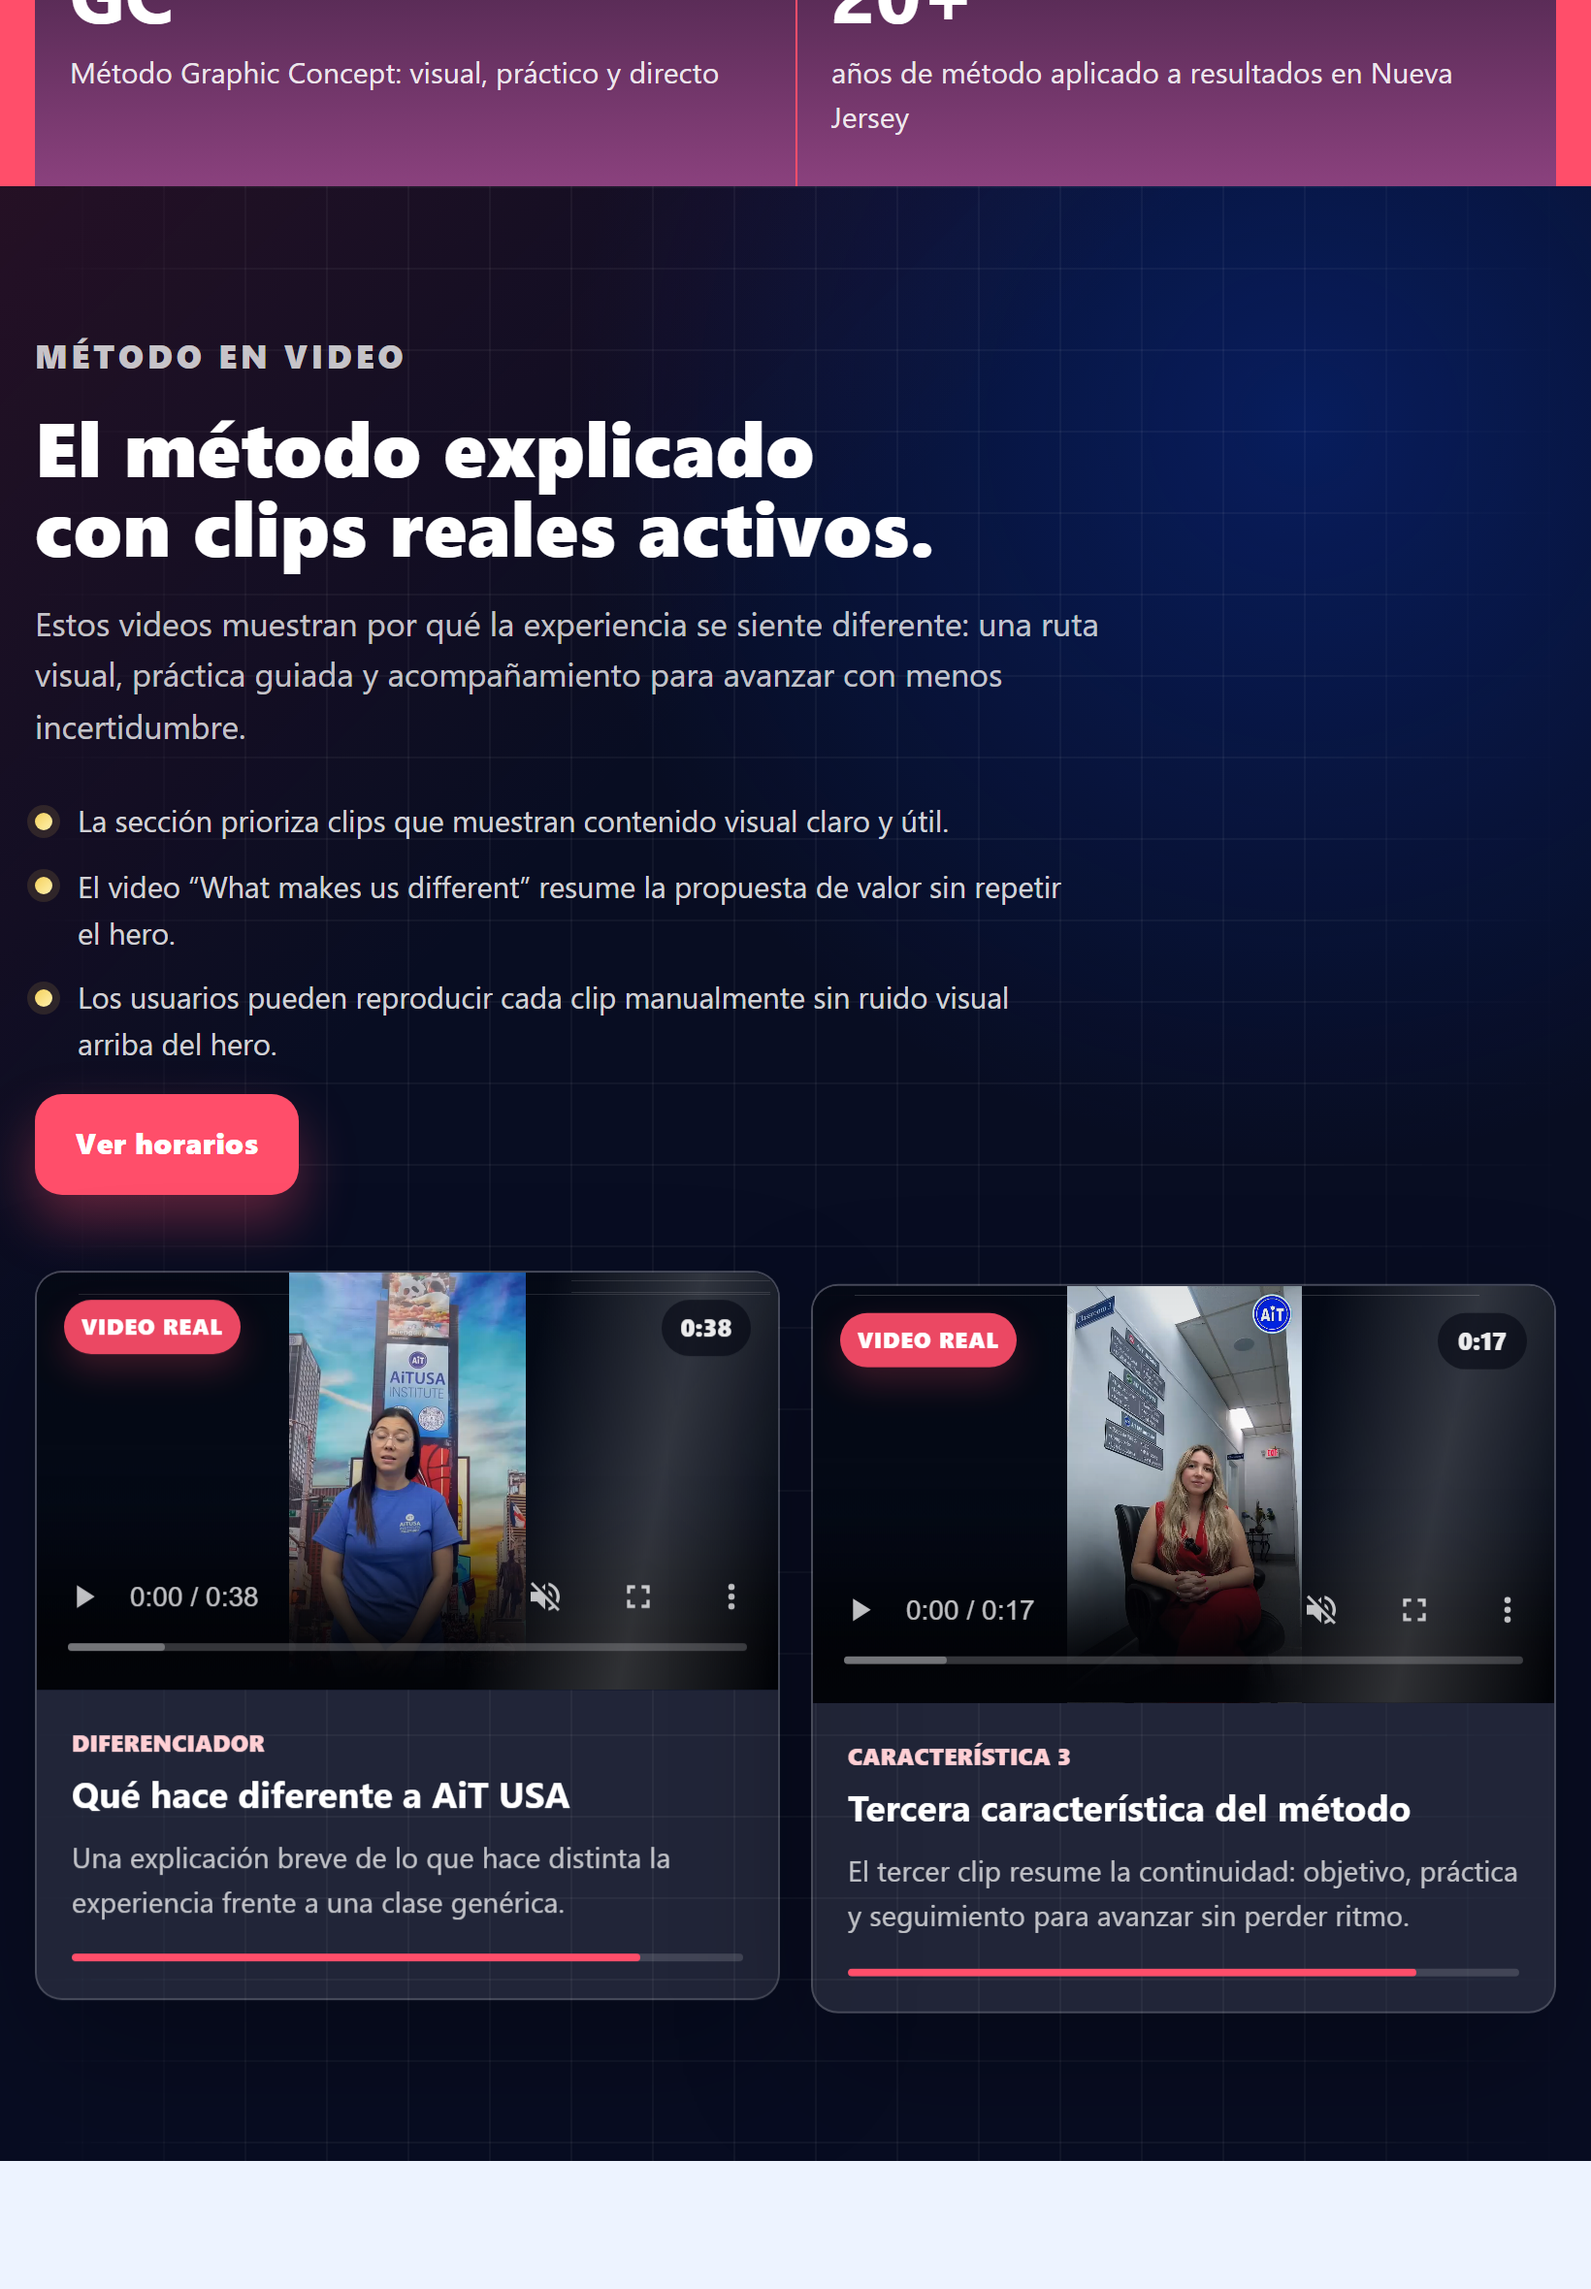
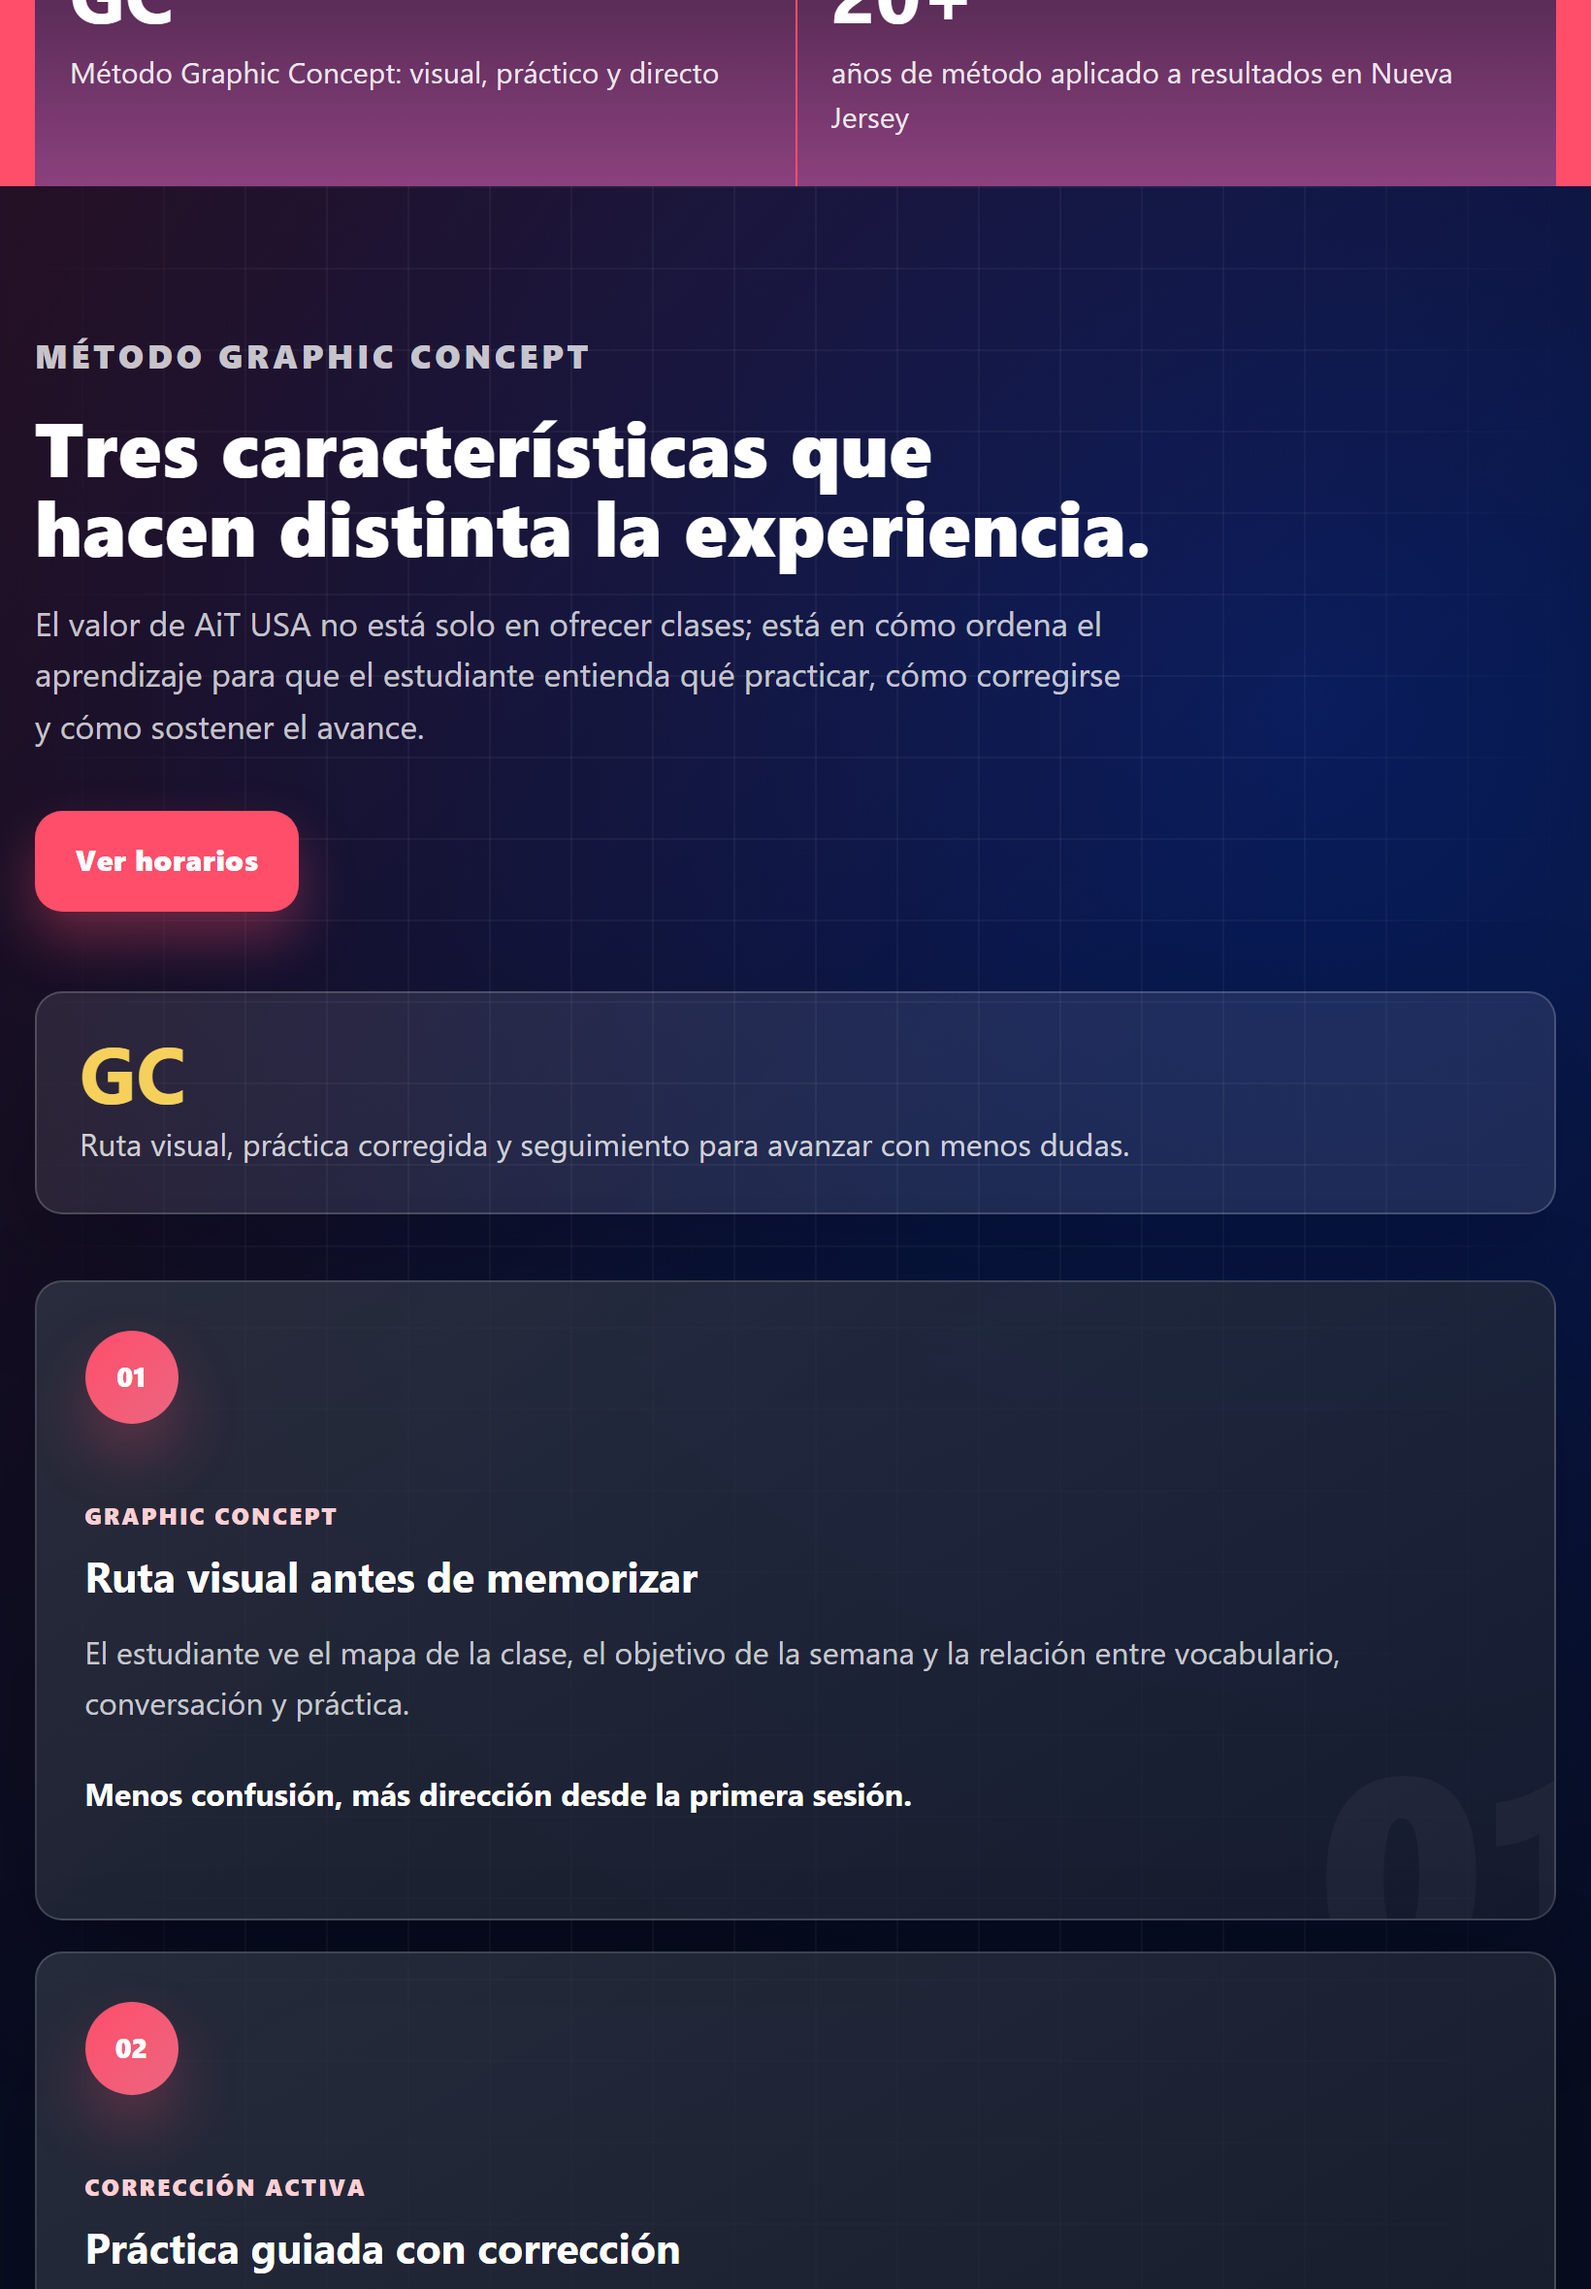
Add method characteristics section

diff --git a/src/main.js b/src/main.js
@@ -11,6 +11,7 @@ const {
   heroSignal,
   heroStartPath,
   instructorClips,
+  methodCharacteristics,
   heroProof,
   locations,
   modalities,
@@ -1856,22 +1857,45 @@ app.innerHTML = `
     </section>
 
     <section id="experiencia" class="section section--reel" aria-labelledby="reel-title">
-      <div class="section-inner reel-grid">
+      <div class="section-inner reel-header">
         <div class="reel-copy">
-          <p class="section-kicker">Método en video</p>
-          <h2 id="reel-title">El método explicado con clips reales activos.</h2>
+          <p class="section-kicker">Método Graphic Concept</p>
+          <h2 id="reel-title">Tres características que hacen distinta la experiencia.</h2>
           <p>
-            Estos videos muestran por qué la experiencia se siente diferente: una ruta visual, práctica guiada y
-            acompañamiento para avanzar con menos incertidumbre.
+            El valor de AiT USA no está solo en ofrecer clases; está en cómo ordena el aprendizaje para que el
+            estudiante entienda qué practicar, cómo corregirse y cómo sostener el avance.
           </p>
-          <ul class="reel-copy__points" aria-label="Lo que muestran los clips">
-            <li>La sección prioriza clips que muestran contenido visual claro y útil.</li>
-            <li>El video “What makes us different” resume la propuesta de valor sin repetir el hero.</li>
-            <li>Los usuarios pueden reproducir cada clip manualmente sin ruido visual arriba del hero.</li>
-          </ul>
           <a class="button button--primary" href="#horarios">Ver horarios</a>
         </div>
-        <div class="instructor-reel" aria-label="Videos sobre el método y características de AiT USA">
+        <div class="reel-summary" aria-label="Resumen del método">
+          <strong>GC</strong>
+          <span>Ruta visual, práctica corregida y seguimiento para avanzar con menos dudas.</span>
+        </div>
+      </div>
+      <div class="section-inner method-characteristics" aria-label="Tres características del método">
+        ${methodCharacteristics
+          .map(
+            (item) => `
+              <article class="method-characteristic" data-watermark="${item.number}">
+                <span class="method-characteristic__number">${item.number}</span>
+                <p class="method-characteristic__eyebrow">${item.eyebrow}</p>
+                <h3>${item.title}</h3>
+                <p>${item.description}</p>
+                <strong>${item.proof}</strong>
+              </article>
+            `,
+          )
+          .join("")}
+      </div>
+      <div class="section-inner active-video-proof">
+        <div class="active-video-proof__copy">
+          <p class="section-kicker">Videos activos</p>
+          <h3>Los clips visibles respaldan la propuesta con ejemplos reales.</h3>
+          <p>
+            Mira el diferenciador y la continuidad del método en clips breves antes de elegir curso, formato u horario.
+          </p>
+        </div>
+        <div class="instructor-reel" aria-label="Videos activos sobre el método y características de AiT USA">
           ${instructorClips
         .map(
             (clip, index) => `
@@ -2583,6 +2607,7 @@ const initMobileActionBar = () => {
   const mobileMatcher = window.matchMedia("(max-width: 720px)");
   const applyState = () => {
     const hero = document.querySelector("#inicio");
+    const experience = document.querySelector("#experiencia");
     const footer = document.querySelector(".site-footer");
     const heroThreshold = hero
       ? hero.offsetTop + hero.offsetHeight - window.innerHeight * 0.35
@@ -2590,8 +2615,17 @@ const initMobileActionBar = () => {
     const footerTop = footer
       ? footer.getBoundingClientRect().top + window.scrollY
       : Number.POSITIVE_INFINITY;
+    const experienceTop = experience
+      ? experience.getBoundingClientRect().top + window.scrollY
+      : Number.POSITIVE_INFINITY;
+    const experienceBottom = experience
+      ? experienceTop + experience.offsetHeight
+      : Number.NEGATIVE_INFINITY;
     const beforeFooter = window.scrollY + window.innerHeight * 0.82 < footerTop;
-    const shouldShow = mobileMatcher.matches && window.scrollY > heroThreshold && beforeFooter;
+    const outsideExperience =
+      window.scrollY + window.innerHeight * 0.72 < experienceTop ||
+      window.scrollY + window.innerHeight * 0.18 > experienceBottom;
+    const shouldShow = mobileMatcher.matches && window.scrollY > heroThreshold && beforeFooter && outsideExperience;
     mobileActionBar.classList.toggle("is-visible", shouldShow);
   };
 

diff --git a/src/styles.css b/src/styles.css
@@ -1661,12 +1661,35 @@ select {
   mask-image: linear-gradient(90deg, transparent, #000 18%, #000 82%, transparent);
 }
 
-.reel-grid {
+.reel-header {
   position: relative;
   display: grid;
-  grid-template-columns: minmax(0, 0.78fr) minmax(0, 1.22fr);
-  gap: clamp(32px, 6vw, 82px);
-  align-items: center;
+  grid-template-columns: minmax(0, 1fr) minmax(260px, 0.42fr);
+  gap: clamp(24px, 5vw, 72px);
+  align-items: end;
+}
+
+.reel-summary {
+  justify-self: end;
+  max-width: 360px;
+  padding: 22px;
+  border: 1px solid rgba(255, 255, 255, 0.18);
+  border-radius: var(--radius);
+  background: rgba(255, 255, 255, 0.09);
+  box-shadow: 0 26px 70px rgba(0, 0, 0, 0.22);
+}
+
+.reel-summary strong {
+  display: block;
+  margin-bottom: 8px;
+  color: var(--yellow);
+  font-size: clamp(2rem, 5vw, 3.4rem);
+  line-height: 0.9;
+}
+
+.reel-summary span {
+  color: rgba(255, 255, 255, 0.78);
+  line-height: 1.55;
 }
 
 .reel-copy p {
@@ -1706,6 +1729,110 @@ select {
 
 .reel-copy .button {
   margin-top: 14px;
+}
+
+.method-characteristics {
+  position: relative;
+  display: grid;
+  grid-template-columns: repeat(3, minmax(0, 1fr));
+  gap: 16px;
+  margin-top: 34px;
+}
+
+.method-characteristic {
+  position: relative;
+  min-height: 330px;
+  display: grid;
+  align-content: start;
+  padding: clamp(22px, 3vw, 30px);
+  overflow: hidden;
+  border: 1px solid rgba(255, 255, 255, 0.16);
+  border-radius: var(--radius);
+  background:
+    linear-gradient(150deg, rgba(255, 255, 255, 0.13), rgba(255, 255, 255, 0.06)),
+    rgba(5, 12, 31, 0.72);
+  box-shadow: 0 28px 70px rgba(0, 0, 0, 0.24);
+}
+
+.method-characteristic::after {
+  position: absolute;
+  right: -34px;
+  bottom: -42px;
+  color: rgba(255, 255, 255, 0.04);
+  font-size: 9rem;
+  font-weight: 950;
+  line-height: 1;
+  content: attr(data-watermark);
+}
+
+.method-characteristic__number {
+  width: 48px;
+  height: 48px;
+  display: grid;
+  place-items: center;
+  margin-bottom: 38px;
+  border-radius: 999px;
+  color: #fff;
+  background: linear-gradient(135deg, var(--red), #eb6680);
+  font-size: 0.86rem;
+  font-weight: 950;
+  box-shadow: 0 16px 32px rgba(255, 78, 106, 0.28);
+}
+
+.method-characteristic__eyebrow {
+  margin: 0 0 10px;
+  color: #ffcfd4;
+  font-size: 0.76rem;
+  font-weight: 950;
+  letter-spacing: 0.08em;
+  text-transform: uppercase;
+}
+
+.method-characteristic h3 {
+  max-width: 320px;
+  margin: 0;
+  color: #fff;
+  font-size: clamp(1.34rem, 2.2vw, 1.85rem);
+  line-height: 1.05;
+}
+
+.method-characteristic p:not(.method-characteristic__eyebrow) {
+  margin: 16px 0 0;
+  color: rgba(255, 255, 255, 0.76);
+  line-height: 1.62;
+}
+
+.method-characteristic strong {
+  display: block;
+  margin-top: 22px;
+  color: #fff;
+  line-height: 1.45;
+}
+
+.active-video-proof {
+  position: relative;
+  display: grid;
+  grid-template-columns: minmax(240px, 0.44fr) minmax(0, 1fr);
+  gap: clamp(20px, 4vw, 46px);
+  align-items: center;
+  margin-top: 18px;
+  padding: clamp(18px, 3vw, 28px);
+  border: 1px solid rgba(255, 255, 255, 0.14);
+  border-radius: var(--radius);
+  background: rgba(0, 0, 0, 0.16);
+}
+
+.active-video-proof__copy h3 {
+  margin: 0;
+  color: #fff;
+  font-size: clamp(1.45rem, 2.6vw, 2.15rem);
+  line-height: 1.05;
+}
+
+.active-video-proof__copy p:not(.section-kicker) {
+  max-width: 470px;
+  color: rgba(255, 255, 255, 0.74);
+  line-height: 1.62;
 }
 
 .instructor-reel {
@@ -4979,7 +5106,17 @@ select {
     grid-template-columns: 1fr;
   }
 
-  .reel-grid {
+  .reel-header,
+  .active-video-proof {
+    grid-template-columns: 1fr;
+  }
+
+  .reel-summary {
+    justify-self: stretch;
+    max-width: none;
+  }
+
+  .method-characteristics {
     grid-template-columns: 1fr;
   }
 
@@ -5242,6 +5379,36 @@ select {
 
   .section h2 {
     font-size: clamp(1.9rem, 7.5vw, 2.5rem);
+  }
+
+  .reel-header,
+  .method-characteristics,
+  .active-video-proof {
+    margin-top: 0;
+  }
+
+  .reel-summary {
+    padding: 18px;
+  }
+
+  .method-characteristics {
+    gap: 12px;
+    margin-top: 22px;
+  }
+
+  .method-characteristic {
+    min-height: 0;
+    padding: 20px;
+  }
+
+  .method-characteristic__number {
+    margin-bottom: 28px;
+  }
+
+  .active-video-proof {
+    gap: 18px;
+    margin-top: 14px;
+    padding: 16px;
   }
 
   .instructor-reel {

diff --git a/src/content.js b/src/content.js
@@ -817,6 +817,33 @@ const instructorClips = [
   },
 ];
 
+const methodCharacteristics = [
+  {
+    number: "01",
+    title: "Ruta visual antes de memorizar",
+    eyebrow: "Graphic Concept",
+    description:
+      "El estudiante ve el mapa de la clase, el objetivo de la semana y la relación entre vocabulario, conversación y práctica.",
+    proof: "Menos confusión, más dirección desde la primera sesión.",
+  },
+  {
+    number: "02",
+    title: "Práctica guiada con corrección",
+    eyebrow: "Corrección activa",
+    description:
+      "La clase no se queda en teoría: hay conversación, repetición útil y ajustes en vivo para que cada intento sea más claro.",
+    proof: "El estudiante entiende qué corregir y cómo repetirlo mejor.",
+  },
+  {
+    number: "03",
+    title: "Continuidad hasta ganar confianza",
+    eyebrow: "Seguimiento real",
+    description:
+      "Cada bloque conecta con el siguiente para mantener ritmo, medir avance y adaptar presencial, híbrido u online a la agenda real.",
+    proof: "La ruta no depende de motivación suelta; depende de estructura.",
+  },
+];
+
 const schedules = [
   {
     label: "Mañanas",
@@ -1465,6 +1492,7 @@ window.AITUSA_DATA = {
   heroGallery,
   instructorClips,
   locations,
+  methodCharacteristics,
   methodBlocks,
   modalities,
   nav,
